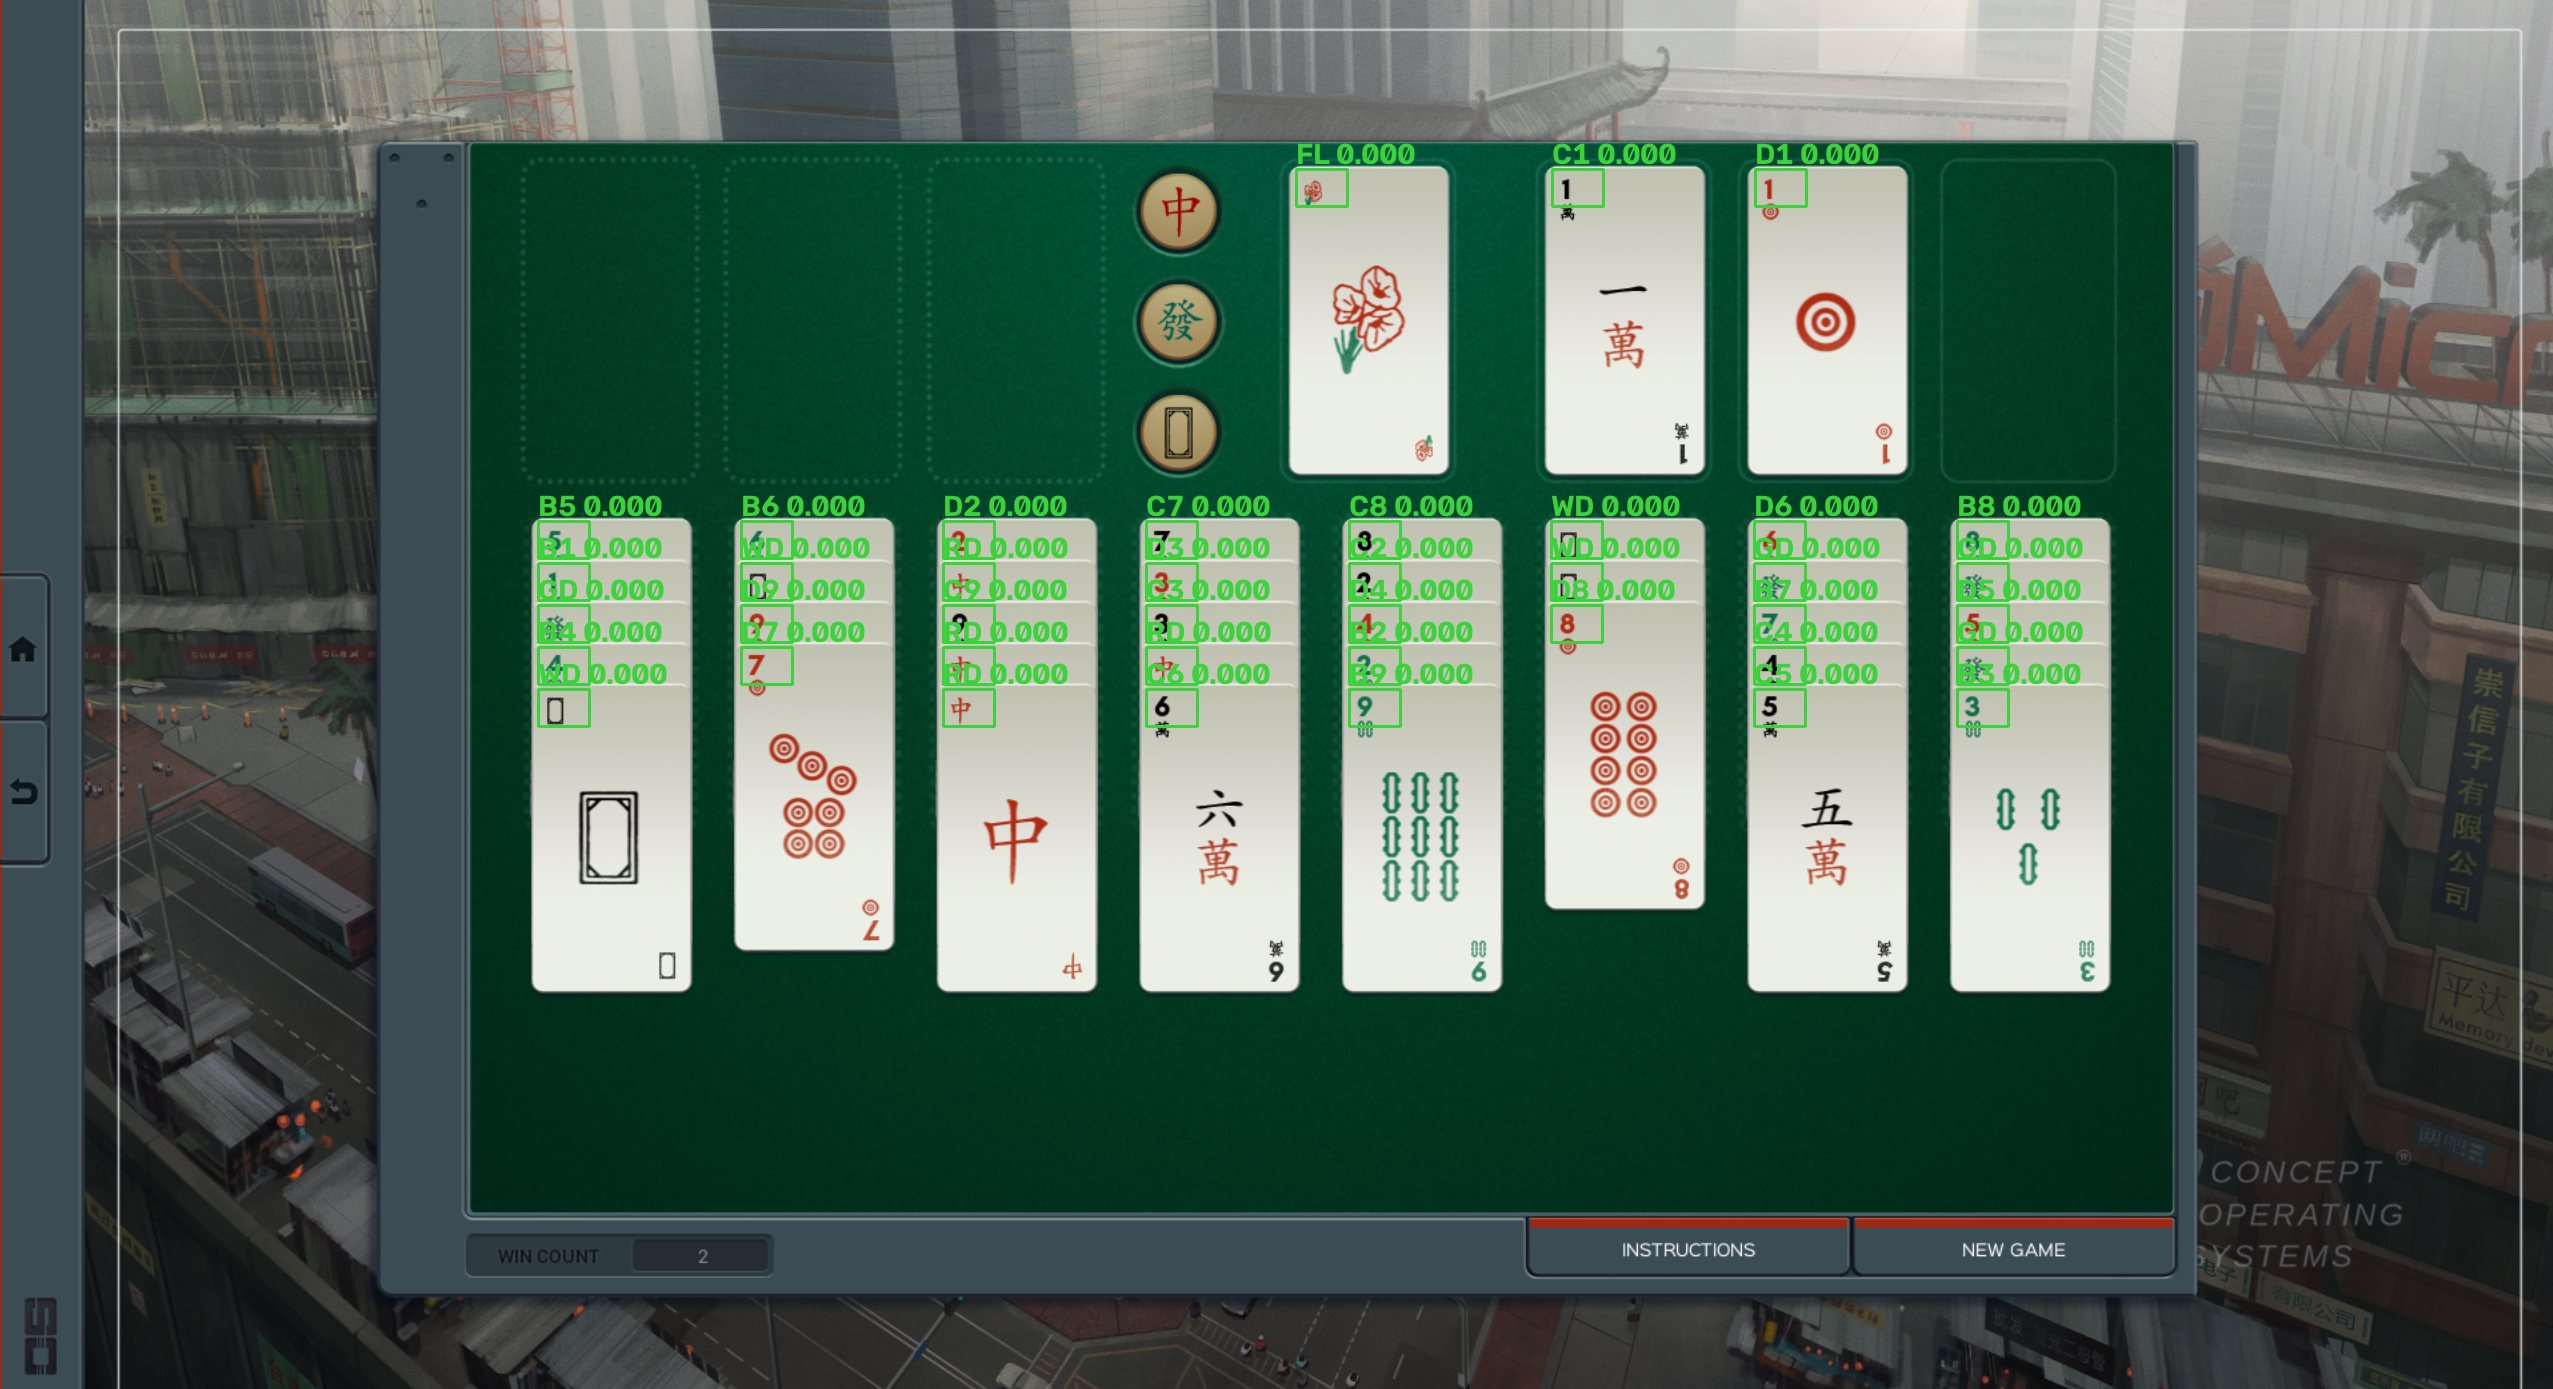
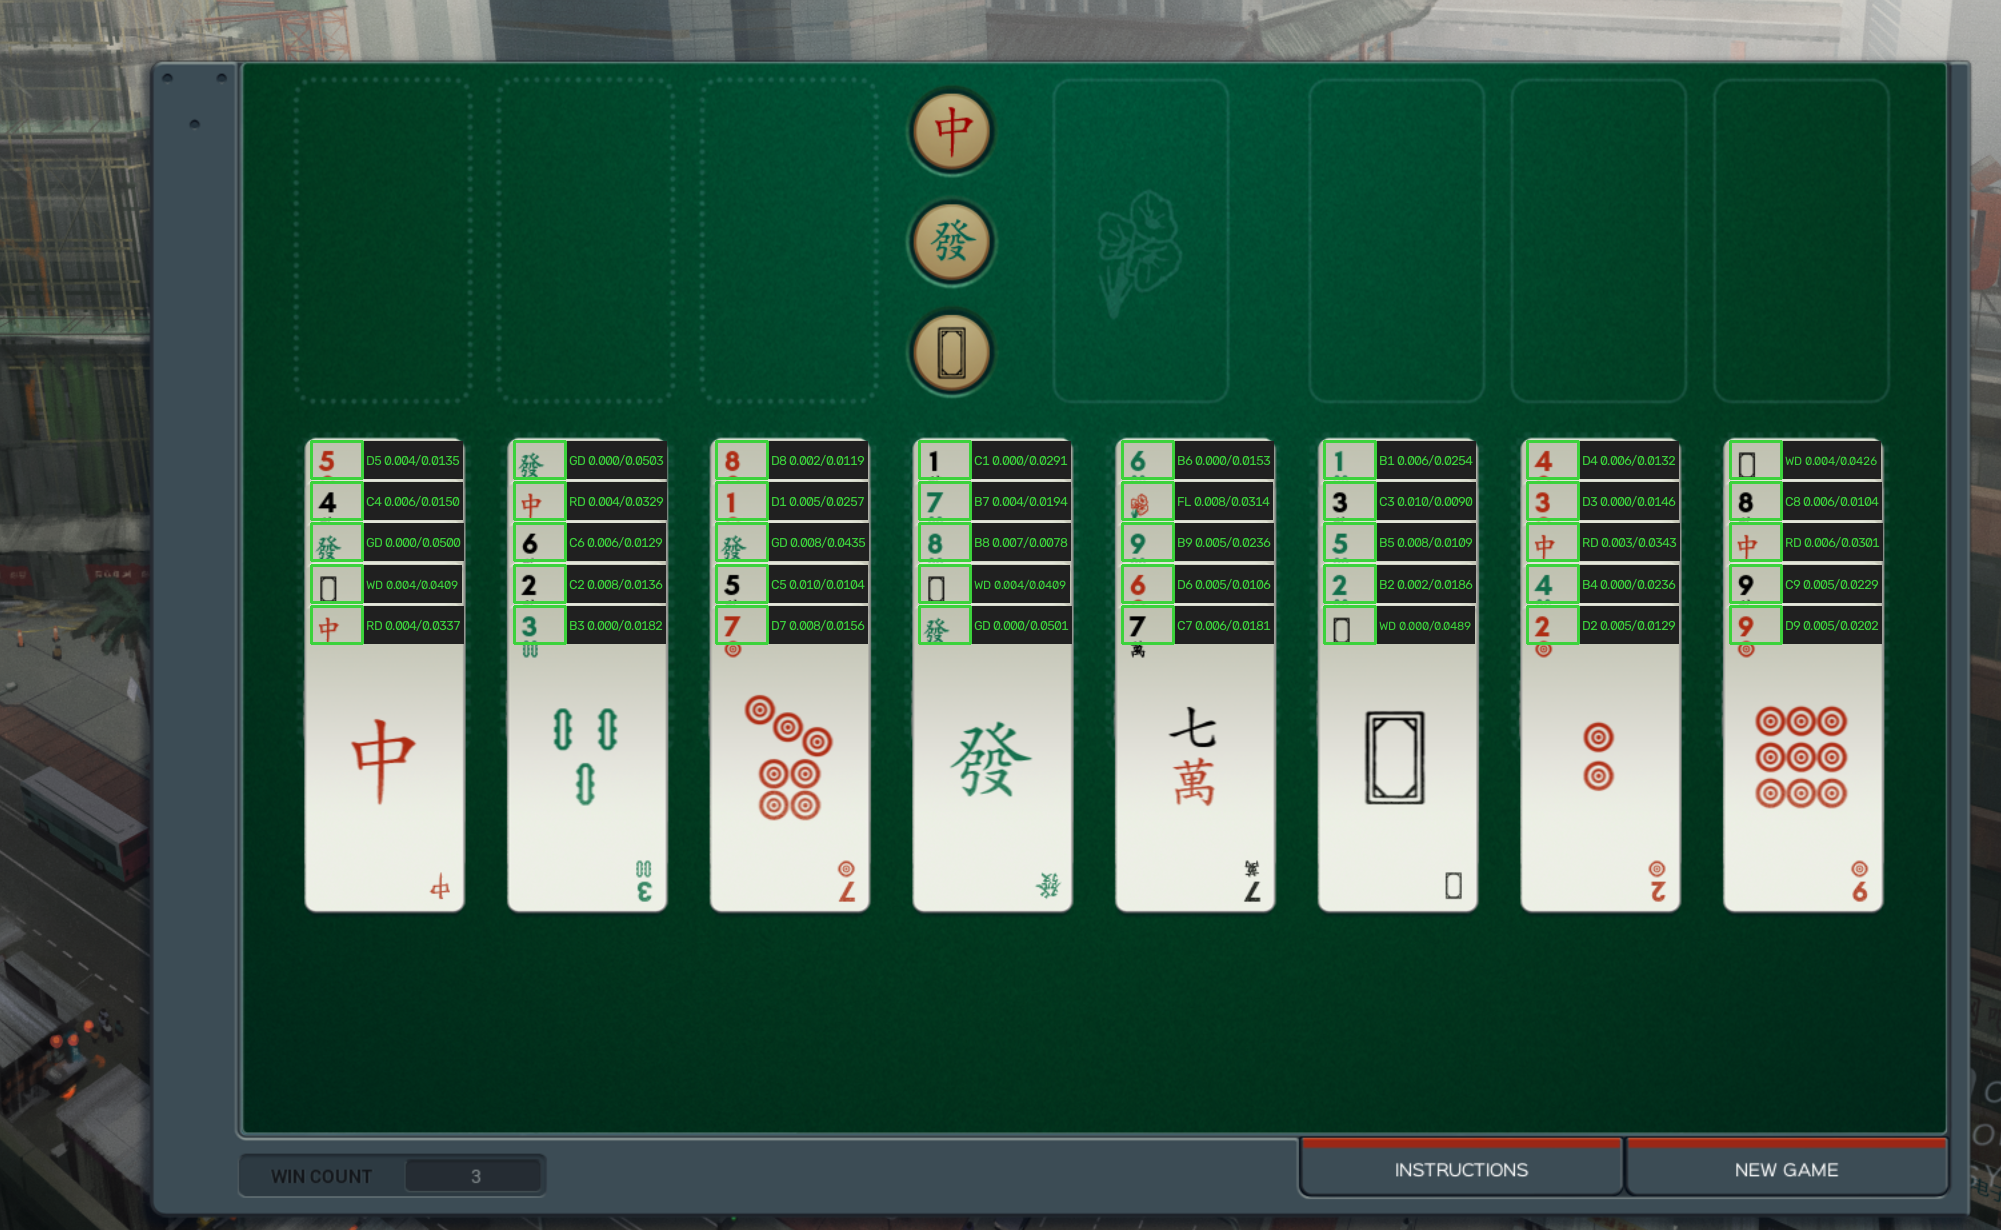
Document the width-based layout and refresh the stale example debug image

diff --git a/shenzhen_solitaire/vision.py b/shenzhen_solitaire/vision.py
@@ -1,9 +1,14 @@
 """Screenshot recognition for the SHENZHEN I/O Solitaire solver.
 
 The recognizer is calibrated from ``shenzhen_reference.png``.  It finds the
-green playfield, scales all layout measurements relative to it, and compares
+green playfield, scales all layout measurements from its width, and compares
 the exposed upper-left corner of each card with templates taken from the
 reference image.
+
+Width, not the playfield's bounding box: the game sizes its cards from the
+window width and lets the felt fill whatever height is left, so only the
+horizontal extent is a fixed multiple of card size. That is what makes the
+reading independent of both resolution and window shape.
 """
 
 from __future__ import annotations

diff --git a/README.md b/README.md
@@ -13,9 +13,10 @@ the rank-and-suit corner instead of comparing the entire card face.
 ![SHENZHEN I/O calibration deal used to build card templates](shenzhen_solitaire/shenzhen_reference.png)
 
 When reading a new screenshot, the recognizer locates the green playfield,
-scales the expected layout to match it, and labels each detected card corner.
-The debug output below shows each prediction and its match-distance score;
-lower scores are better, and green boxes are within the acceptance threshold.
+scales the expected layout from its width, and labels each detected card
+corner. The debug output below shows each prediction, its match-distance
+score, and the margin by which it beat the runner-up; lower scores are better,
+and green boxes are within the acceptance threshold.
 
 ![OCR debug output with predicted cards and confidence scores](docs/images/shenzhen_debug.png)
 
@@ -72,8 +73,16 @@ Omit `[ocr]` when only the dependency-free solver is needed.
 ## Solving a screenshot
 
 Capture the full green playfield with all tableau columns and the top row
-visible. Window movement, cropping, and uniform scaling are supported, but the
-game theme and card artwork should match the reference image.
+visible. Window movement, cropping, resolution, and window shape are all
+supported: every measurement is taken from the playfield's width, so a 16:9
+window and a 16:10 one read the same board identically even though the felt
+is a different shape in each. The game theme and card artwork do need to match
+the reference image.
+
+Resolution has a floor but no ceiling. Cards must come out at least 64 pixels
+wide, which needs a playfield around 800 pixels across; below that the rank
+glyphs stop separating reliably, so a smaller capture is reported as too small
+rather than guessed at.
 
 ```console
 uv run --extra ocr shenzhen-solitaire path/to/screenshot.png
@@ -142,15 +151,22 @@ uv run --extra ocr shenzhen-solitaire screenshot.png \
   --debug-image runs/screenshot_debug.png
 ```
 
-Each detected card is labeled with its predicted card, its match score, and
-the margin by which it beat the runner-up. The margin is the number that
-matters: every pair of distinct cards scores below the absolute threshold, so
-a low score means "this is a card" rather than "this is the right card". Green
-boxes cleared both checks; red boxes are either unrecognizable or too close to
-call. The debug image is written before any recognition error is reported, so
-it is available for exactly the runs worth inspecting. `runs/` is intended as a
-local scratch directory; its generated screenshots and debug images are ignored
-by Git.
+Each detected card is labeled beside its corner with the predicted card, its
+match score, and the margin by which it beat the runner-up. The margin is the
+number that matters: every pair of distinct cards scores below the absolute
+threshold, so a low score means "this is a card" rather than "this is the
+right card". Green boxes cleared both checks; red boxes are either
+unrecognizable or too close to call.
+
+Labels are sized from the card they annotate rather than from the image, so
+each one stays inside its own card. On a capture too small to fit all three
+values legibly, a label drops the margin, then the score, instead of shrinking
+until it is unreadable or running into the column alongside.
+
+The debug image is written even when recognition fails, so the runs most worth
+inspecting are the ones it covers. Give the path a real image extension, since
+OpenCV picks its encoder from it. `runs/` is intended as a local scratch
+directory; its generated screenshots and debug images are ignored by Git.
 
 ## Development
 
